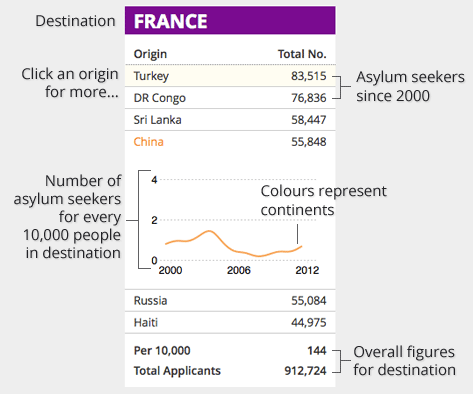
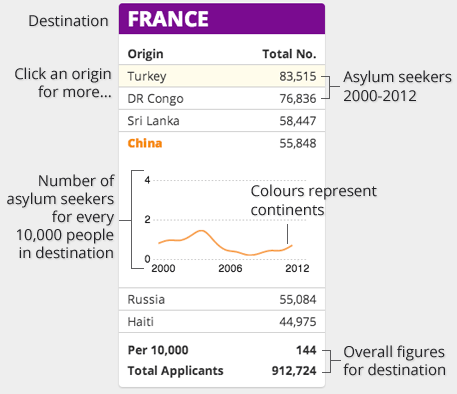
align continent filters

diff --git a/app/index.html b/app/index.html
@@ -79,9 +79,10 @@
       </p>
       <img id="img-demo-card" class="demo-card" src="images/refugee-demo-card.png" alt=""></img>
       <p class="lead">
-        Interrogate the data on the top 60 asylum seeker destinations by clicking
+        Interrogate the data on the 60 countries that received the most asylum
+        seeker applications from 2000 to 2012 by clicking
         on the names of origin countries, using the filter and sort options in
-        the toolbar, and by comparing across continents.
+        the toolbar, and comparing across continents.
       </p>
     </div>
     <div id="app-controls-wrapper" class="isotope-list-wrapper">

diff --git a/app/styles/_app-controls.scss b/app/styles/_app-controls.scss
@@ -48,13 +48,13 @@
     display: inline-block;
   }
   .isotope-list {
-    margin: 0 10px;
+    margin: 0 6px;
     .isotope-ul {
       padding: 0;
       li {
         .interaction-div {
-          padding: 3px 10px;
-          margin: 2px 1px;
+          padding: 5px 10px;
+          margin: 1px;
           background-color: white;
           cursor: pointer;
           &:hover {

diff --git a/app/styles/_app-responsive.scss b/app/styles/_app-responsive.scss
@@ -50,6 +50,9 @@ $sml-screen-margin: 10px;
       /*top: 32px !important;*/
     /*}*/
   /*}*/
+  .interaction-div {
+    padding: 2px 10px !important;
+  }
   .navbar-collapse {
     padding-left: 0 !important;
   }
